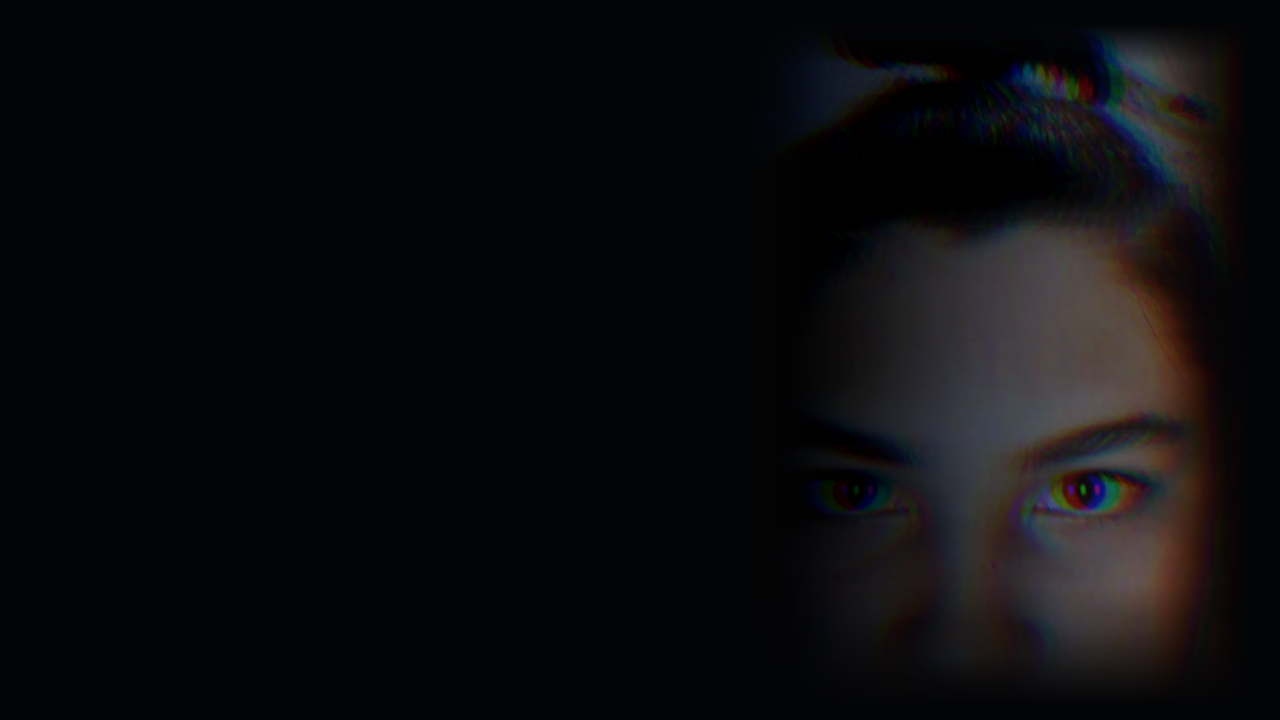
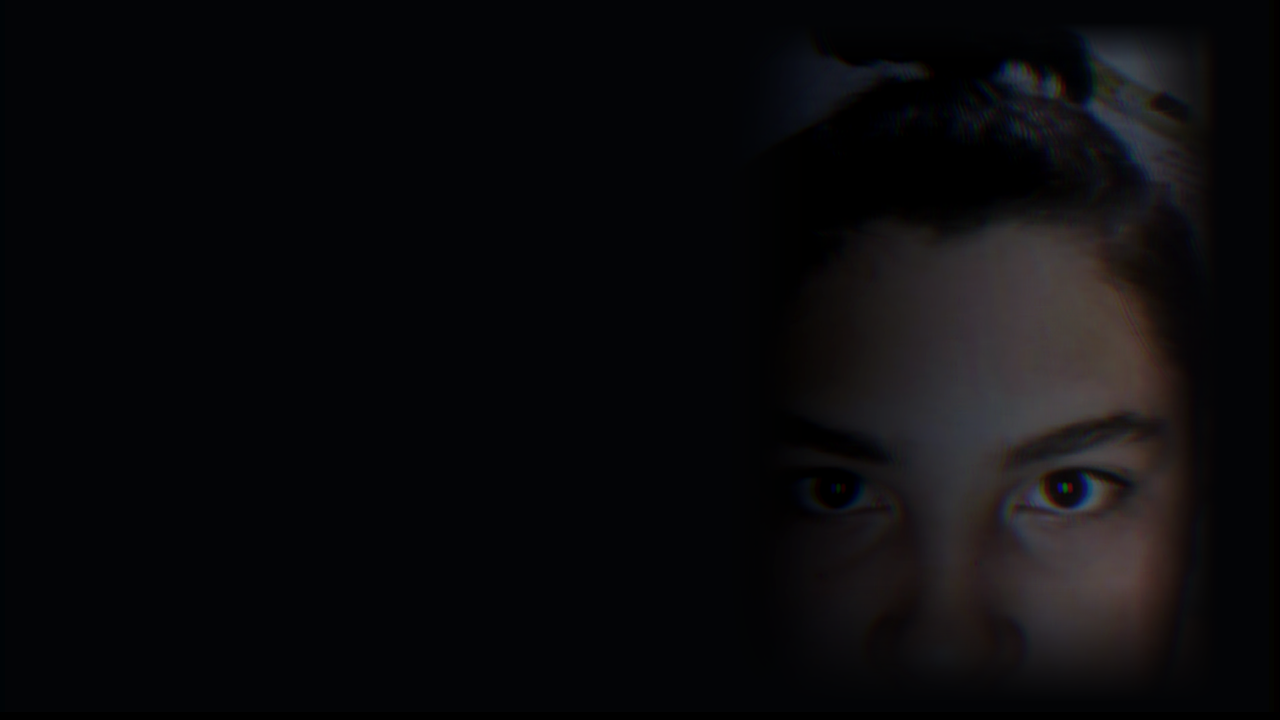
Optimize mobile FOV and panning, eliminate camera black edges, remove fullscreen buttons, and make title twitches pure Chris

diff --git a/src/game.js b/src/game.js
@@ -498,79 +498,6 @@ class GameManager {
       });
     }
 
-    // Fullscreen Toggles (Title Action Bar & In-Game HUD)
-    const titleFsBtn = document.getElementById('title-btn-fs');
-    const startFsBtn = document.getElementById('start-fs-btn');
-    const hudFsBtn = document.getElementById('btn-fullscreen');
-    let lastFsToggle = 0;
-
-    const updateFsButtons = () => {
-      const isFs = !!(document.fullscreenElement || document.webkitFullscreenElement || document.mozFullScreenElement || document.msFullscreenElement);
-      const label = isFs ? '✕ EXIT FULLSCREEN' : '⛶ FULLSCREEN';
-      if (titleFsBtn) titleFsBtn.textContent = label;
-      if (startFsBtn) startFsBtn.textContent = label;
-      if (hudFsBtn) hudFsBtn.textContent = label;
-    };
-
-    document.addEventListener('fullscreenchange', updateFsButtons);
-    document.addEventListener('webkitfullscreenchange', updateFsButtons);
-
-    const showIPhoneToast = () => {
-      let toast = document.getElementById('iphone-fs-toast');
-      if (!toast) {
-        toast = document.createElement('div');
-        toast.id = 'iphone-fs-toast';
-        toast.className = 'iphone-fs-toast';
-        toast.innerHTML = '📱 <strong>iOS Fullscreen:</strong> Tap Safari Share icon <strong>(⎋)</strong> then <strong>"Add to Home Screen"</strong> for borderless full screen!';
-        document.body.appendChild(toast);
-      }
-      toast.classList.add('visible');
-      this.scheduleTimeout(() => toast.classList.remove('visible'), 5000);
-    };
-
-    const toggleFs = (e) => {
-      if (e) e.stopPropagation();
-      const now = Date.now();
-      if (now - lastFsToggle < 400) return;
-      lastFsToggle = now;
-
-      const doc = document;
-      const docEl = doc.documentElement;
-      const isFs = !!(doc.fullscreenElement || doc.webkitFullscreenElement || doc.mozFullScreenElement || doc.msFullscreenElement);
-
-      if (!isFs) {
-        let req = null;
-        try {
-          if (docEl.requestFullscreen) req = docEl.requestFullscreen();
-          else if (docEl.webkitRequestFullscreen) req = docEl.webkitRequestFullscreen();
-          else if (docEl.mozRequestFullScreen) req = docEl.mozRequestFullScreen();
-          else if (docEl.msRequestFullscreen) req = docEl.msRequestFullscreen();
-        } catch (err) {
-          console.warn('Fullscreen call failed:', err);
-          showIPhoneToast();
-        }
-
-        if (req && req.catch) {
-          req.catch((err) => {
-            console.warn('Fullscreen request rejected:', err);
-            showIPhoneToast();
-          });
-        } else if (!req) {
-          showIPhoneToast();
-        }
-        window.scrollTo(0, 1);
-      } else {
-        if (doc.exitFullscreen) doc.exitFullscreen().catch(() => {});
-        else if (doc.webkitExitFullscreen) doc.webkitExitFullscreen();
-        else if (doc.mozCancelFullScreen) doc.mozCancelFullScreen();
-        else if (doc.msExitFullscreen) doc.msExitFullscreen();
-      }
-    };
-
-    if (titleFsBtn) titleFsBtn.addEventListener('click', toggleFs);
-    if (startFsBtn) startFsBtn.addEventListener('click', toggleFs);
-    if (hudFsBtn) hudFsBtn.addEventListener('click', toggleFs);
-
     // Custom Night Modal openers & closers
     const openCustomBtn = document.getElementById('open-custom-btn');
     const customModal = document.getElementById('custom-night-modal');

diff --git a/style.css b/style.css
@@ -555,12 +555,11 @@ body {
 
 .office-stage {
   position: absolute;
-  top: 0;
+  top: 50%;
   left: 0;
-  /* Guarantee generous horizontal panning across all phone aspect ratios */
-  height: 100vh;
-  height: 100dvh;
-  width: max(calc(100dvh * (1600 / 720)), calc(100vw * 1.35));
+  /* Guarantee authentic FNAF security desk FOV: wide enough that player MUST pan left and right */
+  width: max(calc(100dvh * (1600 / 720)), calc(100vw * 1.55));
+  height: calc(max(calc(100dvh * (1600 / 720)), calc(100vw * 1.55)) * (720 / 1600));
   will-change: transform;
 }
 
@@ -733,31 +732,6 @@ body {
   letter-spacing: 2px;
   color: #a0acbc;
   margin-top: 6px;
-}
-
-.hud-fs-btn {
-  pointer-events: auto;
-  margin-top: 8px;
-  background: rgba(18, 26, 20, 0.88);
-  border: 1px solid var(--fnaf-green);
-  color: var(--fnaf-green);
-  font-family: 'Share Tech Mono', monospace;
-  font-size: 11px;
-  letter-spacing: 1px;
-  padding: 4px 10px;
-  border-radius: 4px;
-  cursor: pointer;
-  touch-action: manipulation;
-  -webkit-tap-highlight-color: transparent;
-  transition: all 0.15s ease;
-  box-shadow: 0 0 8px rgba(57, 255, 20, 0.25);
-  display: inline-block;
-}
-
-.hud-fs-btn:hover, .hud-fs-btn:active {
-  background: var(--fnaf-green);
-  color: #000;
-  box-shadow: 0 0 16px rgba(57, 255, 20, 0.7);
 }
 
 .hud-power {
@@ -958,7 +932,7 @@ body {
   position: absolute;
   top: 0;
   left: 0;
-  width: 100%;
+  width: calc(100% + 80px);
   height: 100%;
   will-change: transform;
   pointer-events: none;
@@ -1709,11 +1683,11 @@ body {
     padding: 6px 16px;
   }
 
-  /* 2. Office stage fills dynamic viewport height */
+  /* 2. Office stage fills dynamic viewport height with authentic FNAF panning */
   .office-stage {
-    height: 100vh;
-    height: 100dvh;
-    width: calc(100dvh * (1600 / 720));
+    top: 50%;
+    width: max(calc(100dvh * (1600 / 720) * 1.35), calc(100vw * 1.55));
+    height: calc(max(calc(100dvh * (1600 / 720) * 1.35), calc(100vw * 1.55)) * (720 / 1600));
   }
 
   /* 3. Wall control panels (Doors & Lights) scaled so they don't block doorway views */
@@ -1795,11 +1769,6 @@ body {
   .night-text {
     font-size: 12px;
     margin-top: 2px;
-  }
-  .hud-fs-btn {
-    font-size: 9px;
-    padding: 2px 6px;
-    margin-top: 4px;
   }
   .cam-hud-topleft {
     top: 8px;

diff --git a/src/office.js b/src/office.js
@@ -40,9 +40,12 @@ class OfficeController {
     this.leftJammed = false;
     this.rightJammed = false;
 
-    // Panning state (Center of 1600px stage on 1280px viewport is -160px)
-    this.currentPanX = -160;
-    this.targetPanX = -160;
+    // Panning state: dynamically center camera on desk/fan
+    const viewW = window.innerWidth;
+    const stageW = this.stage && this.stage.offsetWidth > 0 ? this.stage.offsetWidth : (viewW * 1.55);
+    const maxP = Math.max(0, stageW - viewW);
+    this.currentPanX = - (maxP / 2);
+    this.targetPanX = - (maxP / 2);
 
     // Base asset paths
     this.baseOfficePath = 'assets/office/office_boys.png';
@@ -73,12 +76,12 @@ class OfficeController {
       this.currentPanX = 0;
       this.targetPanX = 0;
     } else if (window.location.search.includes('pan=right')) {
-      this.currentPanX = -320;
-      this.targetPanX = -320;
+      this.currentPanX = -maxP;
+      this.targetPanX = -maxP;
     }
 
-    // Apply transform immediately so headless capture and first frame are perfectly positioned
-    this.stage.style.transform = `translate3d(${this.currentPanX.toFixed(2)}px, 0, 0)`;
+    // Apply transform immediately with vertical center (-50%)
+    this.stage.style.transform = `translate3d(${this.currentPanX.toFixed(2)}px, -50%, 0)`;
 
     this.setupEvents();
     this.startRenderLoop();
@@ -469,7 +472,7 @@ class OfficeController {
     const loop = () => {
       // Smooth interpolation for head panning
       this.currentPanX += (this.targetPanX - this.currentPanX) * 0.085;
-      this.stage.style.transform = `translate3d(${this.currentPanX.toFixed(2)}px, 0, 0)`;
+      this.stage.style.transform = `translate3d(${this.currentPanX.toFixed(2)}px, -50%, 0)`;
 
       requestAnimationFrame(loop);
     };

diff --git a/src/camera.js b/src/camera.js
@@ -638,23 +638,30 @@ class CameraController {
 
   startPanLoop() {
     const loop = () => {
-      if (this.isOpen && !this.isAnimating) {
+      if (this.isOpen && !this.isAnimating && this.camFeedContainer && this.camScreenEl) {
         const now = performance.now();
         const dt = (now - this.lastPanTime) / 1000;
         this.lastPanTime = now;
 
-        // Smoothly sway the camera feed left and right
-        this.panX += this.panDirection * this.panSpeed * dt;
+        // Dynamically compute safe pan limit: never reveal black edges!
+        const maxPan = Math.max(0, this.camFeedContainer.offsetWidth - this.camScreenEl.offsetWidth);
 
-        if (this.panX <= -this.maxPan) {
-          this.panX = -this.maxPan;
-          this.panDirection = 1; // Reverse toward left
-        } else if (this.panX >= 0) {
+        if (maxPan > 0) {
+          this.panX += this.panDirection * this.panSpeed * dt;
+
+          if (this.panX <= -maxPan) {
+            this.panX = -maxPan;
+            this.panDirection = 1; // Reverse toward left
+          } else if (this.panX >= 0) {
+            this.panX = 0;
+            this.panDirection = -1; // Reverse toward right
+          }
+
+          this.camFeedContainer.style.transform = `translate3d(${this.panX.toFixed(1)}px, 0, 0)`;
+        } else {
           this.panX = 0;
-          this.panDirection = -1; // Reverse toward right
+          this.camFeedContainer.style.transform = 'translate3d(0, 0, 0)';
         }
-
-        this.camFeedContainer.style.transform = `translateX(${this.panX.toFixed(1)}px)`;
       } else {
         this.lastPanTime = performance.now();
       }

diff --git a/index.html b/index.html
@@ -79,9 +79,6 @@
         <button id="title-btn-controls" class="title-action-btn">
           <span class="action-icon">🎮</span> CONTROLS
         </button>
-        <button id="title-btn-fs" class="title-action-btn">
-          <span class="action-icon">⛶</span> FULLSCREEN
-        </button>
         <button id="title-btn-reset" class="title-action-btn title-reset-btn" title="Reset Night Progression">
           <span>↺</span> RESET SAVE
         </button>
@@ -140,7 +137,7 @@
             <li><strong>Look Around:</strong> Swipe / drag finger left or right on the screen</li>
             <li><strong>Doors & Lights:</strong> Tap red and white wall buttons directly</li>
             <li><strong>Camera Monitor:</strong> Tap bottom bar ("CAMERA MONITOR")</li>
-            <li><strong>Pro Tip:</strong> Rotate to landscape & tap <strong>FULLSCREEN</strong></li>
+            <li><strong>Pro Tip:</strong> Rotate your device to landscape for the best view</li>
           </ul>
         </div>
         <div class="ctrl-section">
@@ -219,7 +216,6 @@
     <div class="hud-clock">
       <div id="hud-time" class="time-text">12 AM</div>
       <div id="hud-night" class="night-text">Night 1</div>
-      <button id="btn-fullscreen" class="hud-fs-btn" title="Toggle Fullscreen">⛶ FULLSCREEN</button>
     </div>
 
     <!-- Authentic Bottom-Left Power & Usage Meter -->
